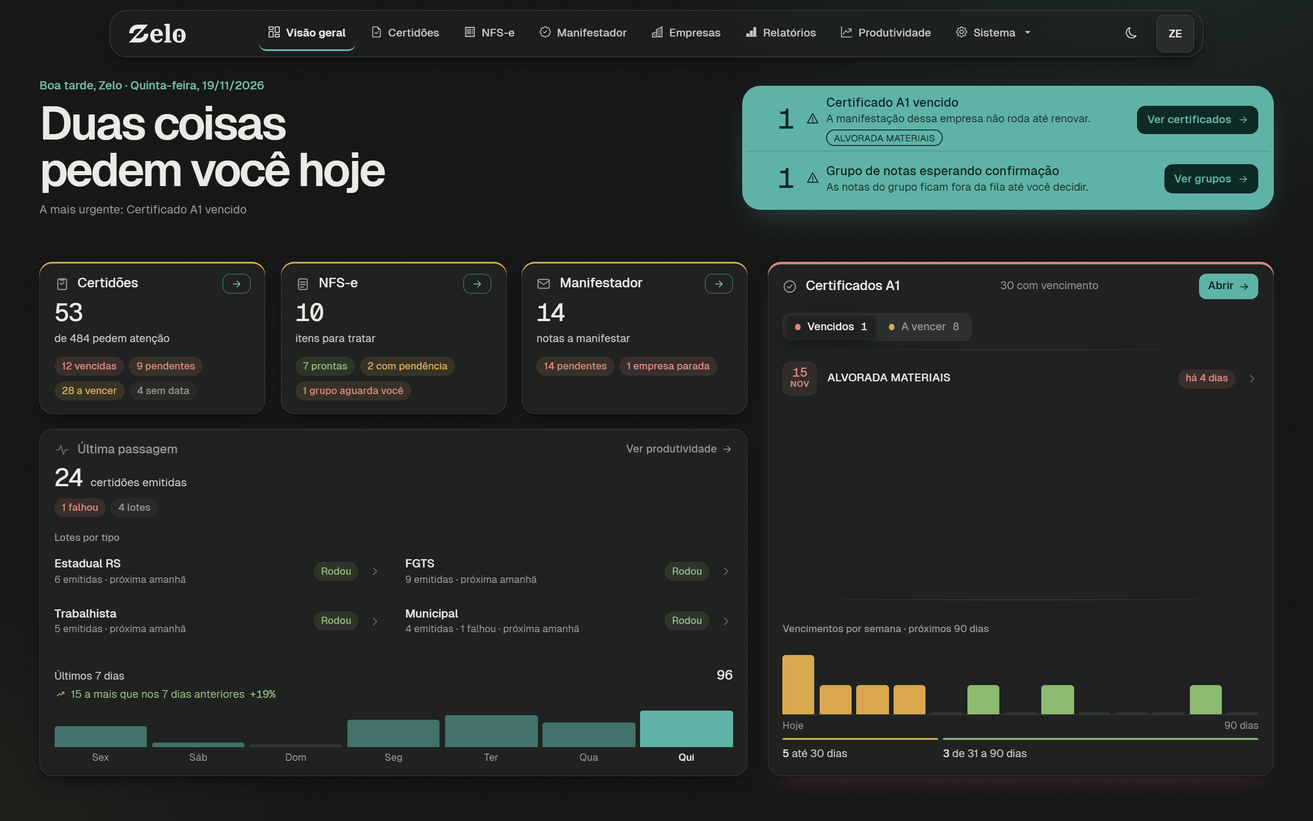
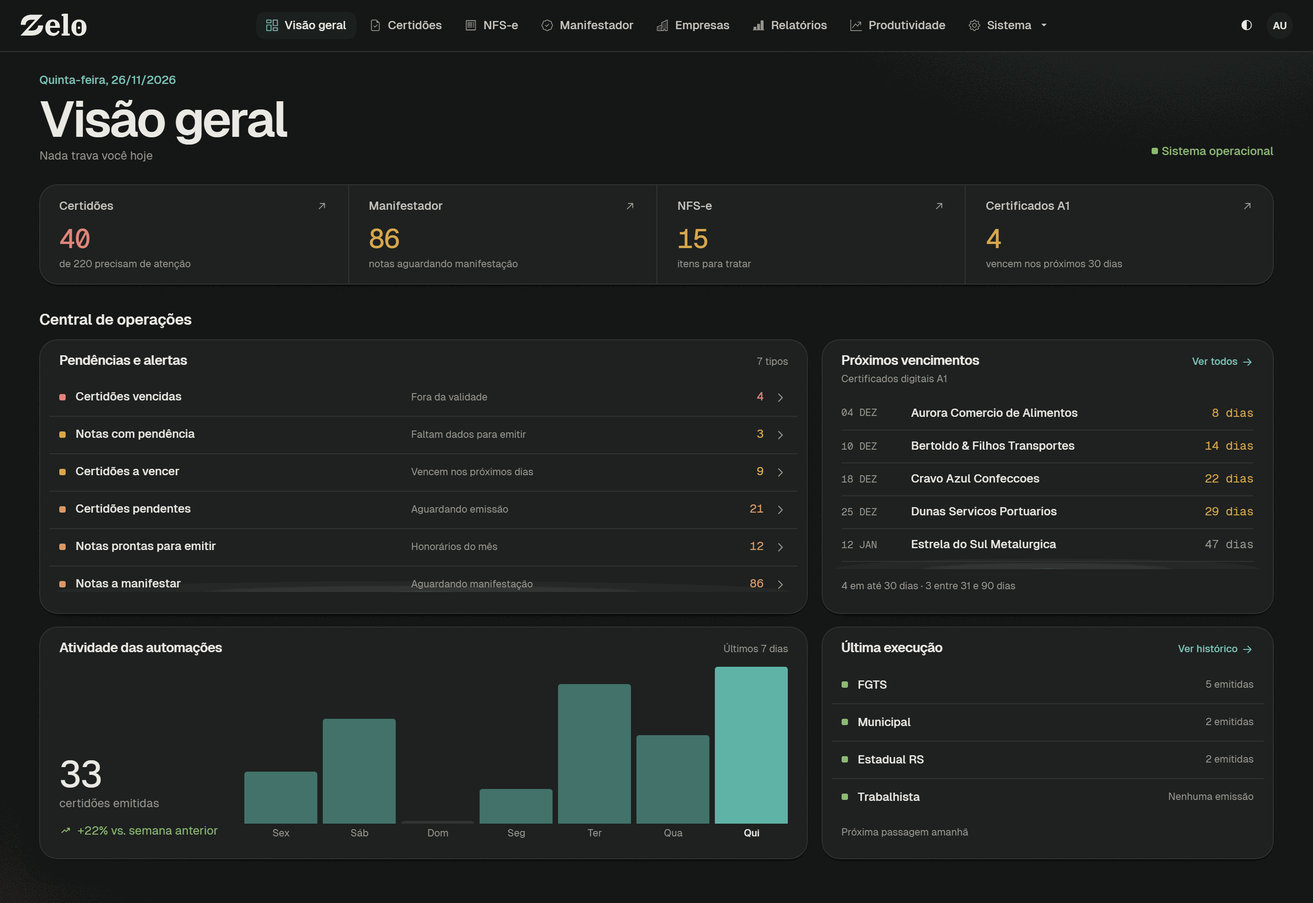
docs: Visão geral operacional e o que mudou desde setembro
Fotos novas (claro e escuro, dados de demonstração); README e docs com estação do operador, entrega contínua, segurança da sessão, API nacional da NFS-e, motivo da pendência, arquivos pelo navegador, CNPJá e reCAPTCHA.

diff --git a/docs/NFSE.md b/docs/NFSE.md
@@ -24,11 +24,14 @@ agrupamento**. Enquanto a proposta espera resposta, as notas do grupo ficam **fo
 emitir a entrada bruta de R$ 2.000,00 com um estorno de R$ 1.784,00 pendurado nela é exatamente
 o erro que a proposta evita.
 
-Confirmar é **reversível**: confirmar e desfazer são simétricos e nada é destruído no caminho.
-O valor volta do valor original do extrato (imutável, o número que está no PDF) e descrição e
-pendência voltam do retrato guardado no momento do agrupamento.
+Confirmar e desfazer são **ações locais**: o valor original do extrato (imutável, o número que
+está no PDF), a descrição e a pendência ficam preservados para a restauração. A guarda fiscal pode
+recusar confirmação, desfazimento ou descarte quando algum membro já tem emissão ou tentativa que
+exige decisão; nesse caso, o grupo não muda. Resolva primeiro o desfecho da nota indicada pelo
+sistema e retome a ação somente se o estado resultante permitir. Se a emissão for confirmada, o grupo
+continua protegido: não confirme, desfaça nem descarte esse agrupamento.
 
-## Emissão: três modos, escolhidos a cada lote
+## Emissão pelo portal: três modos, escolhidos a cada lote
 
 - **Uma por vez**: preenche as três etapas do assistente DPS, para na tela de revisão e fecha o navegador quando a nota sai.
 - **Lista inteira**: o mesmo laço, mantendo a janela autenticada de ponta a ponta.
@@ -39,9 +42,13 @@ Nos dois primeiros modos, **a automação preenche e o operador emite**: quem cl
 nunca um padrão. Ele exige a auto-seleção válida do certificado da NFS-e antes de iniciar. Pausar,
 retomar, pular e parar funcionam durante a espera.
 
+Com a estação do usuário pronta, a assistida de **uma nota** abre o portal no Chrome do PC de quem
+pediu, não na tela do servidor; por isso ela também funciona pelo acesso remoto.
+
 - **Uma sessão de navegador para o dia todo**: o login por certificado digital e a conferência da alíquota do Simples acontecem uma vez, não a cada nota.
 - **Ninguém chuta se a nota saiu**: a confirmação é lida do portal, não da interface. Se o navegador for fechado no meio da revisão, a nota fica *aguardando confirmação* e o operador marca à mão. Os dois chutes erram em direções opostas (marcar emitida perde uma nota que não existe; marcar pendente reemite no mês seguinte uma nota que já existe).
-- **Ação em massa parcial por desenho**: o que der certo é aplicado e o que não der volta nomeado. Só entram ações reversíveis por um clique (cancelar, restaurar, marcar/desmarcar emitida manualmente). **Emitir e preencher ficam de fora**, por definição.
+- **Cancelar uma linha** só registra uma decisão na fila local: não cancela NFS-e na prefeitura nem chama o portal ou a SEFIN. A linha deixa de ser emitível e ocupa a competência; se o extrato for importado novamente, a decisão aparece como duplicidade. Restaurar é uma ação local reversível e reavalia a duplicidade. A aplicação recusa o cancelamento local quando a linha já foi confirmada como duplicata, está emitida, aguarda confirmação no portal, foi absorvida por outra nota (`agrupada`) ou tem uma operação fiscal protegida. Se a nota já existe no Emissor Nacional, trate qualquer cancelamento fiscal pelo procedimento oficial do emissor, fora desta ação.
+- **Ação em massa parcial por desenho**: recusas comuns de estado ficam nomeadas e as outras ações permitidas são aplicadas; bloqueio da guarda fiscal compartilhada ou falha de commit reverte o conjunto inteiro. Só entram ações reversíveis por um clique (cancelar/restaurar linha, marcar/desmarcar emissão manual). **Emitir e preencher ficam de fora**, por definição.
 
 ## O outro lado da conta: conferência do portal
 
@@ -58,34 +65,25 @@ pagamento**.
 
 ## Revisão pré-emissão da API nacional (P3-A)
 
-O cartão **Revisão pré-emissão** é um pré-voo local para uma nota nova. Ele existe para conferir
-os fatos e deixar os bloqueios visíveis antes de a API de produção ser liberada; não é uma emissão
-simulada nem uma autorização.
+O cartão **Revisão pré-emissão** confere localmente os fatos de uma nota nova antes do preparo da
+DPS de produção. Ele mostra os bloqueios e valida uma DPS candidata em memória; não reserva número,
+não assina nem envia a DPS e não autoriza a emissão.
 
 - A lista usa somente o veredito de nota emitível calculado pelo servidor. Informe manualmente
-  `dCompet`, que no perfil atual corresponde ao dia planejado da emissão, normalmente no fim do mês;
-  o campo começa vazio e não é derivado do mês de referência da fila. O montador futuro usará a data
-  efetiva de `dhEmi` para manter essa regra no XML.
+  `dCompet`, a data planejada da emissão; ela não é derivada do mês de referência da fila. O pré-voo
+  valida a DPS candidata com essa data, e o preparo usa a mesma data em `dhEmi`.
 - A resposta mostra tomador, endereço cadastral local, competência mensal, `dCompet`, valor,
   descrição, prestador, município, tributação, NBS, perfil IBS/CBS, retenções, ambiente e versão
   do XSD, além de cada prova e bloqueio.
-- O perfil decidido para a API informa IBS/CBS (`CST 200`, `cClassTrib 200052`, `cIndOp 100301`,
-  sem tratamento especial) e ISSQN tributável sem retenção. A prova estrutural da DPS continua
-  bloqueada até resolver os demais campos obrigatórios do grupo IBS/CBS e a compatibilidade do XSD;
-  uma revisão local apta ainda não autoriza emissão.
+- O pré-voo mostra o perfil IBS/CBS configurado e exige ISSQN tributável sem retenção. A prova
+  estrutural monta uma DPS candidata com número sintético e a valida contra o XSD de produção
+  versionado. Uma revisão local apta não reserva número, não assina nem envia a DPS.
 - Para `cIndOp 100301`, o pré-voo reaproveita o endereço já importado no cadastro local. Se o cadastro
   não tiver logradouro, número, bairro, CEP ou município IBGE, a revisão bloqueia; ela não consulta
   Receita, portal ou API para completar o dado automaticamente.
-- A ação lê somente o banco e o XSD versionado. Não monta XML final, não assina, não reserva
-  número, não consulta ADN/SEFIN/portal, não altera a nota e não oferece botão de envio.
-
-### Estado de prontidão
-
-O pré-voo local está pronto para conferência com dados sintéticos e o builder
-offline já monta a DPS nova em memória com `IBSCBS` completo para o perfil
-decidido. A emissão real ainda depende da compatibilidade estrutural do XSD,
-contador, assinatura, transporte e recuperação. A montagem local não envia,
-reserva número nem substitui a revisão humana.
+- A ação lê somente o banco e o XSD versionado. Monta a DPS candidata em memória com número
+  sintético para validar a estrutura, mas não assina nem reserva número. Não consulta ADN/SEFIN/portal,
+  não altera a nota e não oferece botão de envio.
 
 ## Ensaio restrito da API nacional (P2)
 
@@ -140,6 +138,50 @@ número, exclusivo para o ensaio. O Zelo aceita de 1 a 5 algarismos, no interval
 oficial. Se houver outra integração que gere DPS, confirme com quem a administra quais séries ela
 utiliza antes de escolher; depois do primeiro uso, mantenha a série configurada para preservar a
 sequência do contador.
+
+## Emissão pela API nacional em produção
+
+A emissão por API é um fluxo separado do portal Selenium. Há três modos: **uma nota**, escolhida pelo operador; **assistido**, que apresenta uma nota por vez e pede confirmação antes de cada envio; e **automático**, que exige autorização explícita para um escopo fechado e é processado pelo servidor.
+
+Em qualquer modo, a **preparação** revalida o pré-voo, reserva um número, monta e assina a DPS localmente e grava uma tentativa durável. Preparar não envia nada à SEFIN. O POST só começa após a confirmação de envio da nota ou, no automático, após a autorização do lote. Se uma edição aceita mudar os fatos usados na DPS depois do preparo, prepare outra DPS: o envio da tentativa desatualizada é recusado.
+
+No modo automático, o operador escolhe uma competência ou a última importação como escopo e informa `dCompet` no formato `AAAA-MM-DD`. A autorização congela a lista de notas aptas naquele momento e a data; notas importadas depois não entram nesse lote. `dCompet` é a data planejada para emissão, não a competência mensal do honorário, e também define a data usada em `dhEmi`. Bloqueios do pré-voo precisam ser resolvidos antes da autorização. O servidor mantém o progresso mesmo que a aba feche e interrompe o lote no primeiro desfecho que pede decisão. Se o lote ficar parado após reinício do servidor, retome ou encerre essa autorização antes de criar outra.
+
+A falha de um motor não aciona o outro. O fluxo de produção não troca para Selenium e o ensaio restrito não envia para produção.
+
+A tentativa conserva o XML da DPS assinada antes do envio. O [manual oficial da API do Emissor
+Público Nacional](https://www.gov.br/nfse/pt-br/biblioteca/documentacao-tecnica/documentacao-atual/manual-contribuintes-emissor-publico-api-sistema-nacional-nfs-e-v1-2-out2025.pdf),
+seção 1.3.2, descreve que `POST /nfse` recebe a DPS e retorna o XML da NFS-e gerada com ela.
+No sucesso, o serviço confere o identificador informado pela SEFIN, a estrutura mínima do XML e se a
+chave retornada corresponde ao `Id` da NFS-e; então persiste o XML integral e a chave na mesma
+tentativa `EmissaoDpsNfse` e atualiza o espelho na mesma transação. O parser recusa XML
+descompactado acima de 20 MiB. No MySQL, os XMLs da tentativa usam `LONGTEXT`; no SQLite usam
+`TEXT`. Para a persistência funcionar em todo o limite aceito, o MySQL precisa de
+`max_allowed_packet` de pelo menos `128M`; a aplicação bloqueia a consulta à SEFIN ou o envio fiscal
+quando o limite global ou o da conexão estiver abaixo disso.
+A aplicação compara com a DPS enviada o identificador, o ambiente, tipo e documento do prestador e
+do tomador, a competência e o valor do serviço, além de conferir a coerência entre a chave retornada
+e o `Id` da NFS-e. Essa comparação é parcial: não cobre todos os campos da DPS incorporada, e a
+aplicação não verifica localmente a assinatura do XML da NFS-e recebida.
+
+Se a SEFIN confirmar a emissão, mas a nota da fila já estiver emitida por outro caminho ou não estiver
+mais disponível, a prova validada fica preservada na tentativa em `conflito_vinculo`, sem reescrever
+a nota ou o espelho conhecido. Só quando a emissão estiver confirmada pela fonte oficial, a linha
+local estiver marcada como emitida e a prova estiver completa, use **Reconciliar vínculo**: a ação
+registra a prova no espelho sem novo acesso à SEFIN nem alteração da linha. Se a linha não estiver
+disponível, a emissão não puder ser confirmada ou os fatos da prova divergirem, mantenha a tentativa
+pendente para análise e não prepare nem envie outra DPS. Respostas conflitantes são preservadas
+separadamente da prova já conhecida.
+
+Timeout ou resposta inconclusiva deixa a tentativa em `desfecho_desconhecido`; `enviando` também
+exige recuperação antes de outra ação. Use **Reconsultar resultado** na mesma tentativa: a consulta
+usa o identificador já enviado, não faz outro POST e não reserva outro número. Se a reconsulta ainda
+não comprovar o resultado ou encontrar divergência, mantenha o bloqueio e encaminhe a conferência;
+não repita o envio. A interface mostra o estado e a disponibilidade dos XMLs, não seu conteúdo bruto.
+
+A API não usa o Emissor Nacional via Selenium como fallback. Pré-voo, assinatura, envio, consulta e
+reconciliação têm ações separadas; o ambiente de produção é fixado no serviço, e a tela não aceita
+URL ou ambiente fiscal definidos pelo pedido HTTP.
 
 ## Limitações atuais
 

diff --git a/README.md b/README.md
@@ -35,10 +35,10 @@
 <div align="center">
   <picture>
     <source media="(prefers-color-scheme: dark)" srcset="docs/dashboard-dark.png">
-    <img src="docs/dashboard-light.png" alt="Visão geral do Zelo — o que trava o trabalho hoje, o estado da carteira e o que a automação já fez sozinha" width="100%">
+    <img src="docs/dashboard-light.png" alt="Visão geral do Zelo — um número por pilar e a Central de operações: pendências, próximos vencimentos e a atividade das automações" width="100%">
   </picture>
   <br />
-  <sup><i>Visão geral: o que trava hoje, o estado da carteira e o que rodou no agendador. Dados de demonstração.</i></sup>
+  <sup><i>Visão geral: um número por pilar e a Central de operações, com o que resolver, o que vence e o que as automações fizeram na semana. Dados de demonstração.</i></sup>
 </div>
 
 ---
@@ -55,14 +55,14 @@ Um escritório contábil refaz, todo mês, o mesmo conjunto de tarefas com prazo
 
 **Zelo** automatiza esse ciclo de ponta a ponta, da consulta ao portal público até o PDF arquivado na pasta certa da empresa. Do lado dos clientes: controle visual de vencimentos, organização automática dos documentos e apoio ao acompanhamento de débitos, já que uma certidão pendente costuma sinalizar pendência na respectiva esfera fiscal ou trabalhista. Do lado do escritório: o extrato bancário vira as notas do mês sem redigitar cliente por cliente.
 
-O nome batiza o sistema de uso interno. A identidade é monocromática (grafite sobre papel) e reserva cor para uma coisa só: **o status da certidão**.
+O nome batiza o sistema de uso interno. A identidade é grafite sobre papel, com um único acento verde-petróleo para ação; cor de estado fica reservada para o que **pede atenção**.
 
 ## Os três pilares
 
 | Pilar | O que resolve | Documentação |
 | --- | --- | --- |
-| **Certidões fiscais** | Emissão e controle das certidões Federal, FGTS, Estadual, Municipal e Trabalhista, individual e em lote, sobre portais públicos reais (RFB, Caixa, SEFAZ RS, prefeituras, TST). Agendador diário emite o que está vencendo e avisa por e-mail. | [docs/CERTIDOES.md](docs/CERTIDOES.md) |
-| **NFS-e de honorários** | Do extrato bancário à nota emitida no Emissor Nacional: lê o CSV do Banrisul e o PDF do Inter, casa cada lançamento com o cliente e preenche o assistente até a tela de revisão. | [docs/NFSE.md](docs/NFSE.md) |
+| **Certidões fiscais** | Emissão e controle das certidões Federal, FGTS, Estadual, Municipal e Trabalhista, individual e em lote, sobre portais públicos reais (RFB, Caixa, SEFAZ RS, prefeituras, TST). Agendador diário emite o que está vencendo e avisa por e-mail; a emissão individual roda no PC do operador, pela estação. | [docs/CERTIDOES.md](docs/CERTIDOES.md) |
+| **NFS-e de honorários** | Do extrato bancário à nota emitida no Emissor Nacional: lê o CSV do Banrisul e o PDF do Inter, casa cada lançamento com o cliente e preenche o assistente até a tela de revisão, ou envia a DPS assinada direto pela API nacional. | [docs/NFSE.md](docs/NFSE.md) |
 | **Manifestador de NF-e** | Manifestação do destinatário direto no webservice da SEFAZ, sem navegador, sem `.jnlp` e sem o assinador Java, com cofre dos certificados A1 da carteira. | [docs/MANIFESTADOR.md](docs/MANIFESTADOR.md) |
 
 ## Destaques técnicos
@@ -76,13 +76,15 @@ Cada decisão abaixo existe porque o erro correspondente é caro de desfazer.
 | **Manutenção preventiva** | Um **dry-run** diário percorre o fluxo real de cada município até a fronteira da emissão e aponta o seletor que quebrou, sem emitir nada e sem gastar solver. |
 | **Freio automático de portal fora** | Três falhas seguidas abrem um *circuit breaker*: o lote para em estado retomável e sai alerta por e-mail, em vez de queimar créditos de solver. Portal municipal para sozinho, os outros seguem; o bloqueio expira sem intervenção. O que esgotou tentativas volta à fila com um clique, agrupado por motivo. |
 | **PDF salvo precisa ser certidão** | Antes de gravar validade, um gate confere texto e vocabulário de certidão: página de erro do portal é descartada e vira falha com retry, não certidão "válida" no painel. Reprova só por evidência negativa, para não quebrar fluxos que funcionam. |
-| **Cadastro que se defende sozinho** | CNPJ validado por dígito verificador, dados da Receita via BrasilAPI com fallback ReceitaWS. Campo vazio é preenchido; campo divergente é **sinalizado, nunca sobrescrito** (a automação municipal casa cidade por string). CNPJ baixado sai do lote automático. |
+| **Cadastro que se defende sozinho** | CNPJ validado por dígito verificador, dados da Receita via BrasilAPI com complementação ReceitaWS. Campos ausentes são preenchidos sem sobrescrever divergências; a automação municipal casa cidade por string. CNPJ baixado sai do lote automático. |
 | **Observabilidade de verdade** | Saída dupla (console + `app.jsonl`), `request_id` por requisição e `execution_id` por lote, erros traduzidos em título + causa + ação, preflight antes de emitir e detector de recorrência com hipótese de causa. |
-| **Segurança no uso diário** | Autenticação *deny-by-default* por `before_request` global (rota nova nasce protegida), três papéis hierárquicos, CSRF, trilha de auditoria, PDF por token assinado e expirável, segredos só via ambiente. |
-| **CI com paridade de banco** | Lint + suíte em SQLite em todo PR; a suíte inteira contra **MySQL 8.0** roda quando há alteração de backend, banco ou testes, além de uma execução noturna e manual, pegando divergência de enum, colação e tipo antes da produção e validando a migração idempotente (`upgrade → downgrade → upgrade`). |
+| **Segurança no uso diário** | Autenticação *deny-by-default* por `before_request` global (rota nova nasce protegida), três papéis hierárquicos, CSRF, cabeçalhos de segurança em toda resposta, sessão que expira em 12 h sem uso, trilha de auditoria, PDF por token assinado e expirável, segredos só via ambiente. |
+| **O navegador abre na mesa certa** | Emissão que precisa de Chrome roda na **estação** do operador, não na tela do servidor: um agente instalado pelo próprio Zelo, que fala com o servidor só pela API, com token ligado ao usuário, e devolve o PDF para o servidor conferir antes de aceitar. Pelo acesso remoto (Cloudflare Tunnel), nada abre navegador no servidor. |
+| **Entrega contínua com freio** | Mesclou na `main` com CI verde, a versão sai e é aplicada no servidor por um runner próprio. O deploy espera não haver lote, emissão nem sessão de NFS-e, respeita a janela fora do expediente e volta sozinho para a versão anterior se falhar. |
+| **CI com paridade de banco** | SQLite/lint em todo PR e push na main; JavaScript roda em PRs que alteram frontend, templates, testes JS, ferramentas, workflows ou configuração/dependências Node. **MySQL 8.0** só começa após os gates rápidos no PR e no manual; não há execução agendada. A suíte inteira e o round-trip de migration preservam a paridade com produção. |
 | **Assinatura fiscal sem framework** | A manifestação de NF-e assina XMLDSig e fala SOAP com a SEFAZ usando só a biblioteca padrão + `cryptography`, sem `lxml`, `signxml` ou `zeep`. A equivalência da canonicalização foi **medida contra 3 NF-e reais assinadas** (digest byte a byte, assinatura RSA verificada) antes de escrever a primeira linha do fluxo. |
 | **Certificado casado por prova, não por nome** | Cada empresa é ligada ao seu `.pfx` pelo CNPJ que está **dentro** do certificado, o único identificador que a autoridade certificadora garante. Nome de arquivo, de pasta e razão social não servem: variam de grafia, se repetem entre titulares e às vezes nem são um nome. O `.pfx` nunca é copiado: só caminho e senha cifrada. |
-| **Reuso deliberado** | Um motor de lotes para seis fluxos e núcleos únicos de captcha de imagem, política de certificado do Chrome e classificação de PDF. Cada cópia seria uma divergência silenciosa entre dois portais. |
+| **Reuso deliberado** | Um motor de lotes para seis fluxos e núcleos únicos de captcha (imagem e reCAPTCHA), política de certificado do Chrome e classificação de PDF. Cada cópia seria uma divergência silenciosa entre dois portais. |
 
 ## Vitrine de código
 
@@ -98,8 +100,8 @@ Módulos publicados inteiros, com o raciocínio junto. Cada um roda sozinho.
 | --- | --- |
 | Backend | Python 3.10+, Flask, SQLAlchemy 2.0 / Flask-Migrate, Flask-Login, Flask-WTF, APScheduler |
 | Automação | Selenium, undetected-chromedriver, 2captcha, pdfplumber, certificado digital A1/A3 via política do Chrome |
-| Integrações | BrasilAPI e ReceitaWS (consulta de CNPJ) via `requests`; webservices da SEFAZ (NF-e) por SOAP + mTLS, com XMLDSig assinado pela biblioteca padrão + `cryptography` |
-| Frontend | Jinja2, Bootstrap 5.3 com identidade própria (design tokens, IBM Plex, dark/light), JS vanilla (ES modules, sem bundler), JSDoc com `checkJs` e testes Node |
+| Integrações | BrasilAPI, ReceitaWS e CNPJá (consulta de CNPJ) via `requests`; API nacional da NFS-e; webservices da SEFAZ (NF-e) por SOAP + mTLS, com XMLDSig assinado pela biblioteca padrão + `cryptography` |
+| Frontend | Jinja2, Bootstrap 5.3 com identidade própria (design tokens, Geist, dark/light), JS vanilla (ES modules, sem bundler), JSDoc com `checkJs` e testes Node |
 | Dados | MySQL 8.0 (produção), SQLite (desenvolvimento) |
 | Documentos | openpyxl (XLSX), pypdf + fpdf2 (dossiê PDF), thefuzz (casamento de nomes) |
 

diff --git a/docs/CERTIDOES.md b/docs/CERTIDOES.md
@@ -11,12 +11,16 @@
 - Proteção CSRF em todos os formulários; senhas com hash forte.
 - **Trilha de auditoria**: ações sensíveis (login, criação/alteração de usuário, etc.) ficam registradas e são consultáveis em `/admin/auditoria` (admin).
 - Gestão de usuários em `/admin/usuarios` (admin). O primeiro administrador é criado por linha de comando (não há auto-cadastro público).
+- O login confere usuário e senha **sempre**, mesmo com sessão aberta no navegador; a sessão expira após 12 h sem uso.
+- Toda resposta sai com cabeçalhos de segurança (`X-Frame-Options`, `nosniff`, política de referência). Atrás do túnel do Cloudflare, os cookies saem com `Secure` e o IP real do cliente vale para o limite de tentativas e a auditoria.
 
-## Dashboard e operação
+## Visão geral e operação
+
+- **Visão geral** (`/`): um número por pilar (certidões que pedem atenção, NF-e a manifestar, NFS-e para tratar, certificados A1 que vencem em 30 dias) e a **Central de operações** — pendências e alertas em ordem de gravidade, próximos vencimentos de certificado, a atividade das automações nos últimos 7 dias e o resultado da última execução por tipo. Dado que não carregou aparece como indisponível, nunca como zero.
 
 - Cadastro de empresa com criação automática de 5 certidões.
 - Filtros por status e busca por nome em tempo real.
-- Status visual de certidões (a única cor da interface):
+- Status visual de certidões (cor reservada ao estado; o acento verde-petróleo é só para ação):
   - Verde: válida
   - Âmbar: a vencer (limite configurável, global ou por tipo de certidão)
   - Vermelho: vencida
@@ -24,7 +28,9 @@
   - Cinza: sem data definida
 - Cadastro de nova empresa com seleção de cidade via dropdown (apenas municípios cadastrados) e inscrição mobiliária condicional (Imbé).
 - Tela de Empresas com listagem, filtros, edição e remoção com confirmação.
-- Sidebar responsiva com estado persistente.
+- Toda certidão pendente guarda **o motivo** (positiva, FGTS com impedimento, em processamento no portal, portal não emitiu, marcada à mão, município ou UF mudou…). Mudar a cidade ou a UF da empresa deixa pendentes as certidões que dependem do endereço, para entrarem no próximo lote.
+- Consulta de CNPJ **na hora** pela API comercial da CNPJá, com confirmação que mostra o saldo de créditos antes e depois.
+- Barra do topo com os pilares no centro e o menu Sistema; navegação sem piscar (fontes pré-carregadas e cache de estáticos).
 - Tema claro/escuro com persistência local.
 
 ## Automação de emissão
@@ -61,6 +67,8 @@
 - Honesto sobre o que não deu para ver: passos que dependeriam do clique de emissão são reportados como não verificados, em vez de contados como aprovados. Portal com captcha vira "parcial" (não gasta crédito de solver).
 - **Roda sozinho todo dia**, em horário deslocado do lote de emissão, e dispara alerta quando um município passa a falhar.
 - **Painel em `/diagnostico/municipios`** com o estado de cada município e botão para rodar o dry-run sob demanda.
+- **Passo `recaptcha`** no fluxo municipal: lê a chave do reCAPTCHA v2 na página, resolve no 2captcha e entrega o token ao callback do widget. O dry-run nunca executa esse passo, porque é pago.
+- **Estação do operador**: com as estações ligadas, a emissão individual roda no PC de quem pediu, não na tela do servidor. A estação fala com o servidor só pela API (HTTPS pelo domínio), com token próprio ligado ao usuário; recebe a tarefa, roda o mesmo núcleo de emissão num SQLite local descartável e devolve o PDF, que o servidor confere antes de promover. Instala-se pelo próprio Zelo (menu do avatar › **Instalar neste PC**), com checagem do PC e ícone na bandeja. Pelo acesso remoto, nada abre navegador no servidor.
 - Grafia das cidades padronizada (acento e caixa) com fonte única de canonicalização. O casamento no backend segue normalizado, então acento não quebra nada.
 
 ## Gestão de arquivos
@@ -69,6 +77,7 @@
 - Move e renomeia para a pasta final da empresa.
 - Salva caminho do arquivo no banco.
 - Visualização de PDF com token assinado e expirável.
+- **Arquivos da empresa pelo navegador**: "Abrir pasta" abre um painel lateral só de leitura, preso à pasta da empresa (caminho absoluto, `..` e link para fora respondem 404), com cada download registrado na auditoria. Funciona de qualquer PC e pelo domínio.
 - Download automático no Chrome (incluindo fluxos em modo anônimo), reduzindo necessidade de interação manual no diálogo de salvar.
 
 ## Emissão proativa (agendador)
@@ -89,8 +98,8 @@
 
 - **Exportar carteira (Excel):** botão no dashboard baixa uma planilha `.xlsx` **respeitando os filtros ativos** (status, tipo, estado, cidade). Sai exatamente o que está na tela.
 - **Dossiê (PDF) por empresa:** um único PDF com capa + as certidões **válidas** concatenadas, pronto para licitação/cliente (papel operador). PDF ausente/corrompido é pulado com aviso.
-- **Produtividade:** página `/produtividade` com emissões/dia, taxa de sucesso por tipo e tempo médio de lote (30/90 dias), com exportação em Excel.
-- **Relatórios:** página `/relatorios` com indicadores e distribuição por status/tipo, pendências detalhadas com rankings por tipo e município, as últimas 100 certidões emitidas, o último lote por tipo × escopo (com modal de rendimento) e o gráfico de evolução por status.
+- **Produtividade:** página `/produtividade` com emissões/dia, taxa de sucesso por tipo, tempo médio de lote (30/90 dias) e a lista de empresas que falharam, com o motivo legível e o que fazer; exportação em Excel.
+- **Relatórios:** página `/relatorios` com indicadores e distribuição por status/tipo, pendências detalhadas com rankings por tipo e município, as últimas 100 certidões emitidas, o gráfico de evolução por status.
 
 
 ## Limitações atuais

diff --git a/docs/ARQUITETURA.md b/docs/ARQUITETURA.md
@@ -76,10 +76,10 @@ estado compartilhado fica em um único lugar.
 
 ## Testes e CI
 
-Dois jobs paralelos no GitHub Actions, com papéis distintos:
+Os jobs do GitHub Actions têm papéis distintos:
 
 - **`testes-sqlite`** — lint (`ruff`) e a suíte inteira em SQLite. É o gate rápido, roda em todo PR e em push na `main`.
-- **`testes-mysql`** — a suíte inteira contra **MySQL 8.0** em service container, com `utf8mb4`/`utf8mb4_0900_ai_ci`, quando há alteração de backend, banco ou testes, mais uma execução noturna e manual. O job também valida a **migração idempotente** (`upgrade → downgrade → upgrade`).
+- **`testes-mysql`** — a suíte inteira contra **MySQL 8.0** em service container, com `utf8mb4`/`utf8mb4_0900_ai_ci`, quando há alteração de backend, banco ou testes, e sob demanda; começa só depois dos gates rápidos, e não há execução agendada. O job também valida a **migração idempotente** (`upgrade → downgrade → upgrade`).
 
 A paridade não é zelo excessivo. Cinco divergências entre os dois bancos já
 custaram caro, e **todas passam no gate rápido**: o tipo enum nativo diverge
